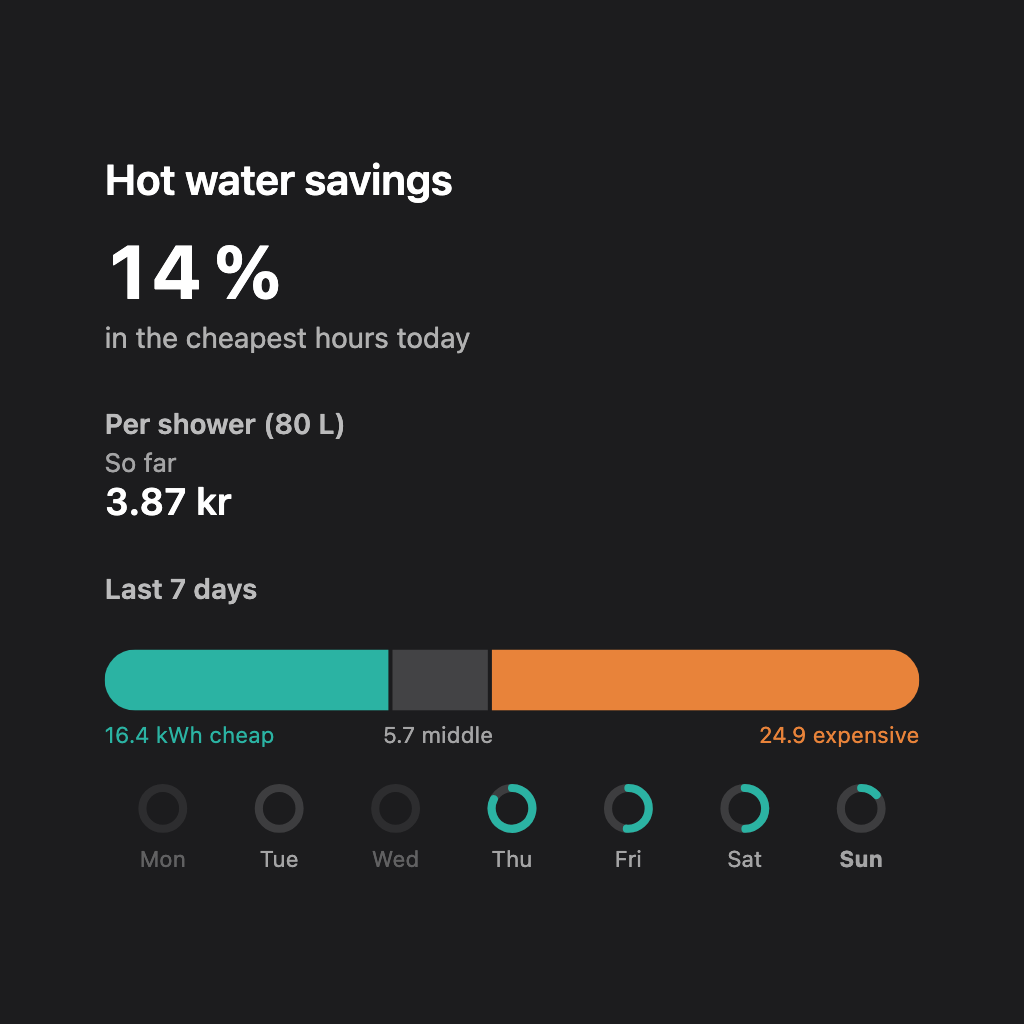
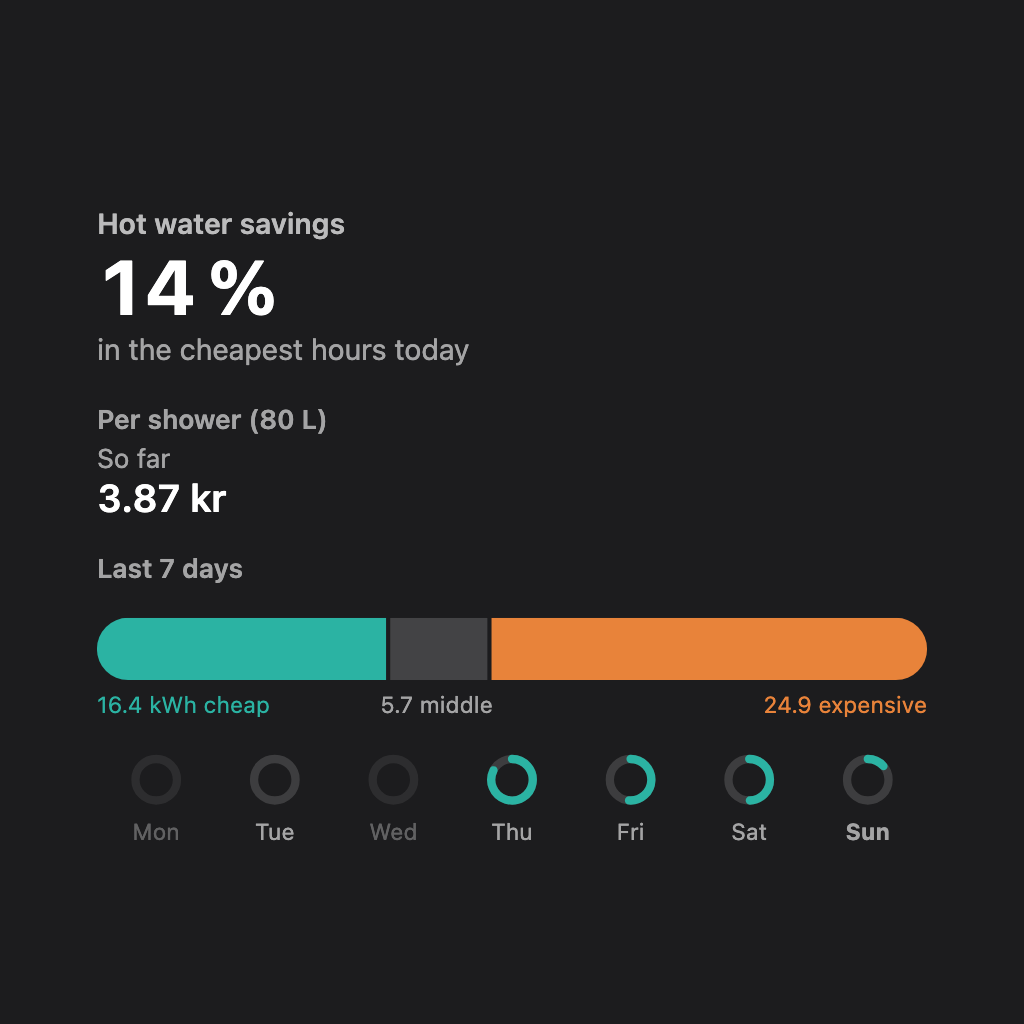
Savings cards back to their layout before the spacing pass
Only the Autopilot cards were to change.

diff --git a/widgets/savings/public/index.html b/widgets/savings/public/index.html
@@ -4,29 +4,29 @@
     <style>
       /* One hierarchy, as Apple's Health and Fitness cards: a quiet caption, a short label, one large
          number with its caption, then small figures and the picture. Spacing on an 8 px rhythm. */
-      .sv { padding: 16px 16px 14px; }
+      .sv { padding: var(--homey-su-2, 8px) var(--homey-su-3, 12px); }
       .sv-head { display: flex; align-items: center; justify-content: space-between; gap: 8px; }
       .sv-title { opacity: 0.6; white-space: nowrap; overflow: hidden; text-overflow: ellipsis; }
       .sv-tag { font-size: 0.72em; letter-spacing: 0.02em; padding: 1px 7px; border-radius: 999px; border: 1px solid rgba(127, 127, 127, 0.35); opacity: 0.65; white-space: nowrap; }
-      .sv-label { margin: 0; font-size: 1.3em; line-height: 1.2; font-weight: 600; }
-      .sv-hero { margin: 12px 0 0; font-size: 2.3em; line-height: 1.1; font-weight: 700; letter-spacing: -0.02em; font-variant-numeric: tabular-nums; }
+      .sv-label { margin: 14px 0 0; font-size: 0.86em; font-weight: 600; opacity: 0.7; }
+      .sv-hero { margin: 2px 0 0; font-size: 2.3em; line-height: 1.1; font-weight: 700; letter-spacing: -0.02em; font-variant-numeric: tabular-nums; }
       .sv-hero.good { color: var(--sv-cheap); }
       .sv-hero.bad { color: var(--sv-dear); }
-      .sv-caption { margin: 4px 0 0; opacity: 0.65; }
+      .sv-caption { margin: 2px 0 0; opacity: 0.6; }
       .sv-note { margin: 4px 0 0; opacity: 0.7; }
-      .sv-stats { display: flex; gap: 28px; margin: 20px 0 0; }
+      .sv-stats { display: flex; gap: 24px; margin: 14px 0 0; }
       .sv-stat-k { font-size: 0.8em; opacity: 0.6; }
       .sv-stat-v { font-size: 1.15em; font-weight: 600; font-variant-numeric: tabular-nums; }
       .sv-stat-v.good { color: var(--sv-cheap); }
       .sv-stat-s { font-size: 0.8em; opacity: 0.6; }
-      .sv-chart { display: block; margin-top: 22px; overflow: visible; }
+      .sv-chart { display: block; margin-top: 16px; overflow: visible; }
       .sv-chart text { font-size: 11px; fill: currentColor; opacity: 0.6; }
       .sv-chart text.row-label { font-size: 13px; font-weight: 600; opacity: 0.9; }
       .sv-chart text.on-bar { fill: #ffffff; opacity: 1; font-weight: 600; font-size: 12.5px; }
       .sv-chart text.on-bar.mid { fill: currentColor; opacity: 0.8; }
-      .sv-legend { display: flex; flex-wrap: wrap; gap: 6px 16px; font-size: 0.8em; opacity: 0.75; margin-top: 16px; }
+      .sv-legend { display: flex; flex-wrap: wrap; gap: 4px 14px; font-size: 0.78em; opacity: 0.7; margin-top: 12px; }
       .sv-key { display: inline-block; width: 8px; height: 8px; border-radius: 50%; margin-right: 6px; vertical-align: 1px; }
-      .sv-sub { margin: 24px 0 0; font-size: 0.86em; font-weight: 600; opacity: 0.7; }
+      .sv-sub { margin: 16px 0 0; font-size: 0.8em; font-weight: 600; opacity: 0.6; }
       .sv-share { display: flex; align-items: baseline; gap: 8px; margin: 4px 0 0; }
       .sv-share-v { font-size: 1.6em; font-weight: 700; letter-spacing: -0.01em; color: var(--sv-cheap); font-variant-numeric: tabular-nums; }
       .sv-share-n { opacity: 0.6; }

diff --git a/widgets/savings_hotwater/public/index.html b/widgets/savings_hotwater/public/index.html
@@ -4,29 +4,29 @@
     <style>
       /* One hierarchy, as Apple's Health and Fitness cards: a quiet caption, a short label, one large
          number with its caption, then small figures and the picture. Spacing on an 8 px rhythm. */
-      .sv { padding: 16px 16px 14px; }
+      .sv { padding: var(--homey-su-2, 8px) var(--homey-su-3, 12px); }
       .sv-head { display: flex; align-items: center; justify-content: space-between; gap: 8px; }
       .sv-title { opacity: 0.6; white-space: nowrap; overflow: hidden; text-overflow: ellipsis; }
       .sv-tag { font-size: 0.72em; letter-spacing: 0.02em; padding: 1px 7px; border-radius: 999px; border: 1px solid rgba(127, 127, 127, 0.35); opacity: 0.65; white-space: nowrap; }
-      .sv-label { margin: 0; font-size: 1.3em; line-height: 1.2; font-weight: 600; }
-      .sv-hero { margin: 12px 0 0; font-size: 2.3em; line-height: 1.1; font-weight: 700; letter-spacing: -0.02em; font-variant-numeric: tabular-nums; }
+      .sv-label { margin: 14px 0 0; font-size: 0.86em; font-weight: 600; opacity: 0.7; }
+      .sv-hero { margin: 2px 0 0; font-size: 2.3em; line-height: 1.1; font-weight: 700; letter-spacing: -0.02em; font-variant-numeric: tabular-nums; }
       .sv-hero.good { color: var(--sv-cheap); }
       .sv-hero.bad { color: var(--sv-dear); }
-      .sv-caption { margin: 4px 0 0; opacity: 0.65; }
+      .sv-caption { margin: 2px 0 0; opacity: 0.6; }
       .sv-note { margin: 4px 0 0; opacity: 0.7; }
-      .sv-stats { display: flex; gap: 28px; margin: 20px 0 0; }
+      .sv-stats { display: flex; gap: 24px; margin: 14px 0 0; }
       .sv-stat-k { font-size: 0.8em; opacity: 0.6; }
       .sv-stat-v { font-size: 1.15em; font-weight: 600; font-variant-numeric: tabular-nums; }
       .sv-stat-v.good { color: var(--sv-cheap); }
       .sv-stat-s { font-size: 0.8em; opacity: 0.6; }
-      .sv-chart { display: block; margin-top: 22px; overflow: visible; }
+      .sv-chart { display: block; margin-top: 16px; overflow: visible; }
       .sv-chart text { font-size: 11px; fill: currentColor; opacity: 0.6; }
       .sv-chart text.row-label { font-size: 13px; font-weight: 600; opacity: 0.9; }
       .sv-chart text.on-bar { fill: #ffffff; opacity: 1; font-weight: 600; font-size: 12.5px; }
       .sv-chart text.on-bar.mid { fill: currentColor; opacity: 0.8; }
-      .sv-legend { display: flex; flex-wrap: wrap; gap: 6px 16px; font-size: 0.8em; opacity: 0.75; margin-top: 16px; }
+      .sv-legend { display: flex; flex-wrap: wrap; gap: 4px 14px; font-size: 0.78em; opacity: 0.7; margin-top: 12px; }
       .sv-key { display: inline-block; width: 8px; height: 8px; border-radius: 50%; margin-right: 6px; vertical-align: 1px; }
-      .sv-sub { margin: 24px 0 0; font-size: 0.86em; font-weight: 600; opacity: 0.7; }
+      .sv-sub { margin: 16px 0 0; font-size: 0.8em; font-weight: 600; opacity: 0.6; }
       .sv-share { display: flex; align-items: baseline; gap: 8px; margin: 4px 0 0; }
       .sv-share-v { font-size: 1.6em; font-weight: 700; letter-spacing: -0.01em; color: var(--sv-cheap); font-variant-numeric: tabular-nums; }
       .sv-share-n { opacity: 0.6; }
